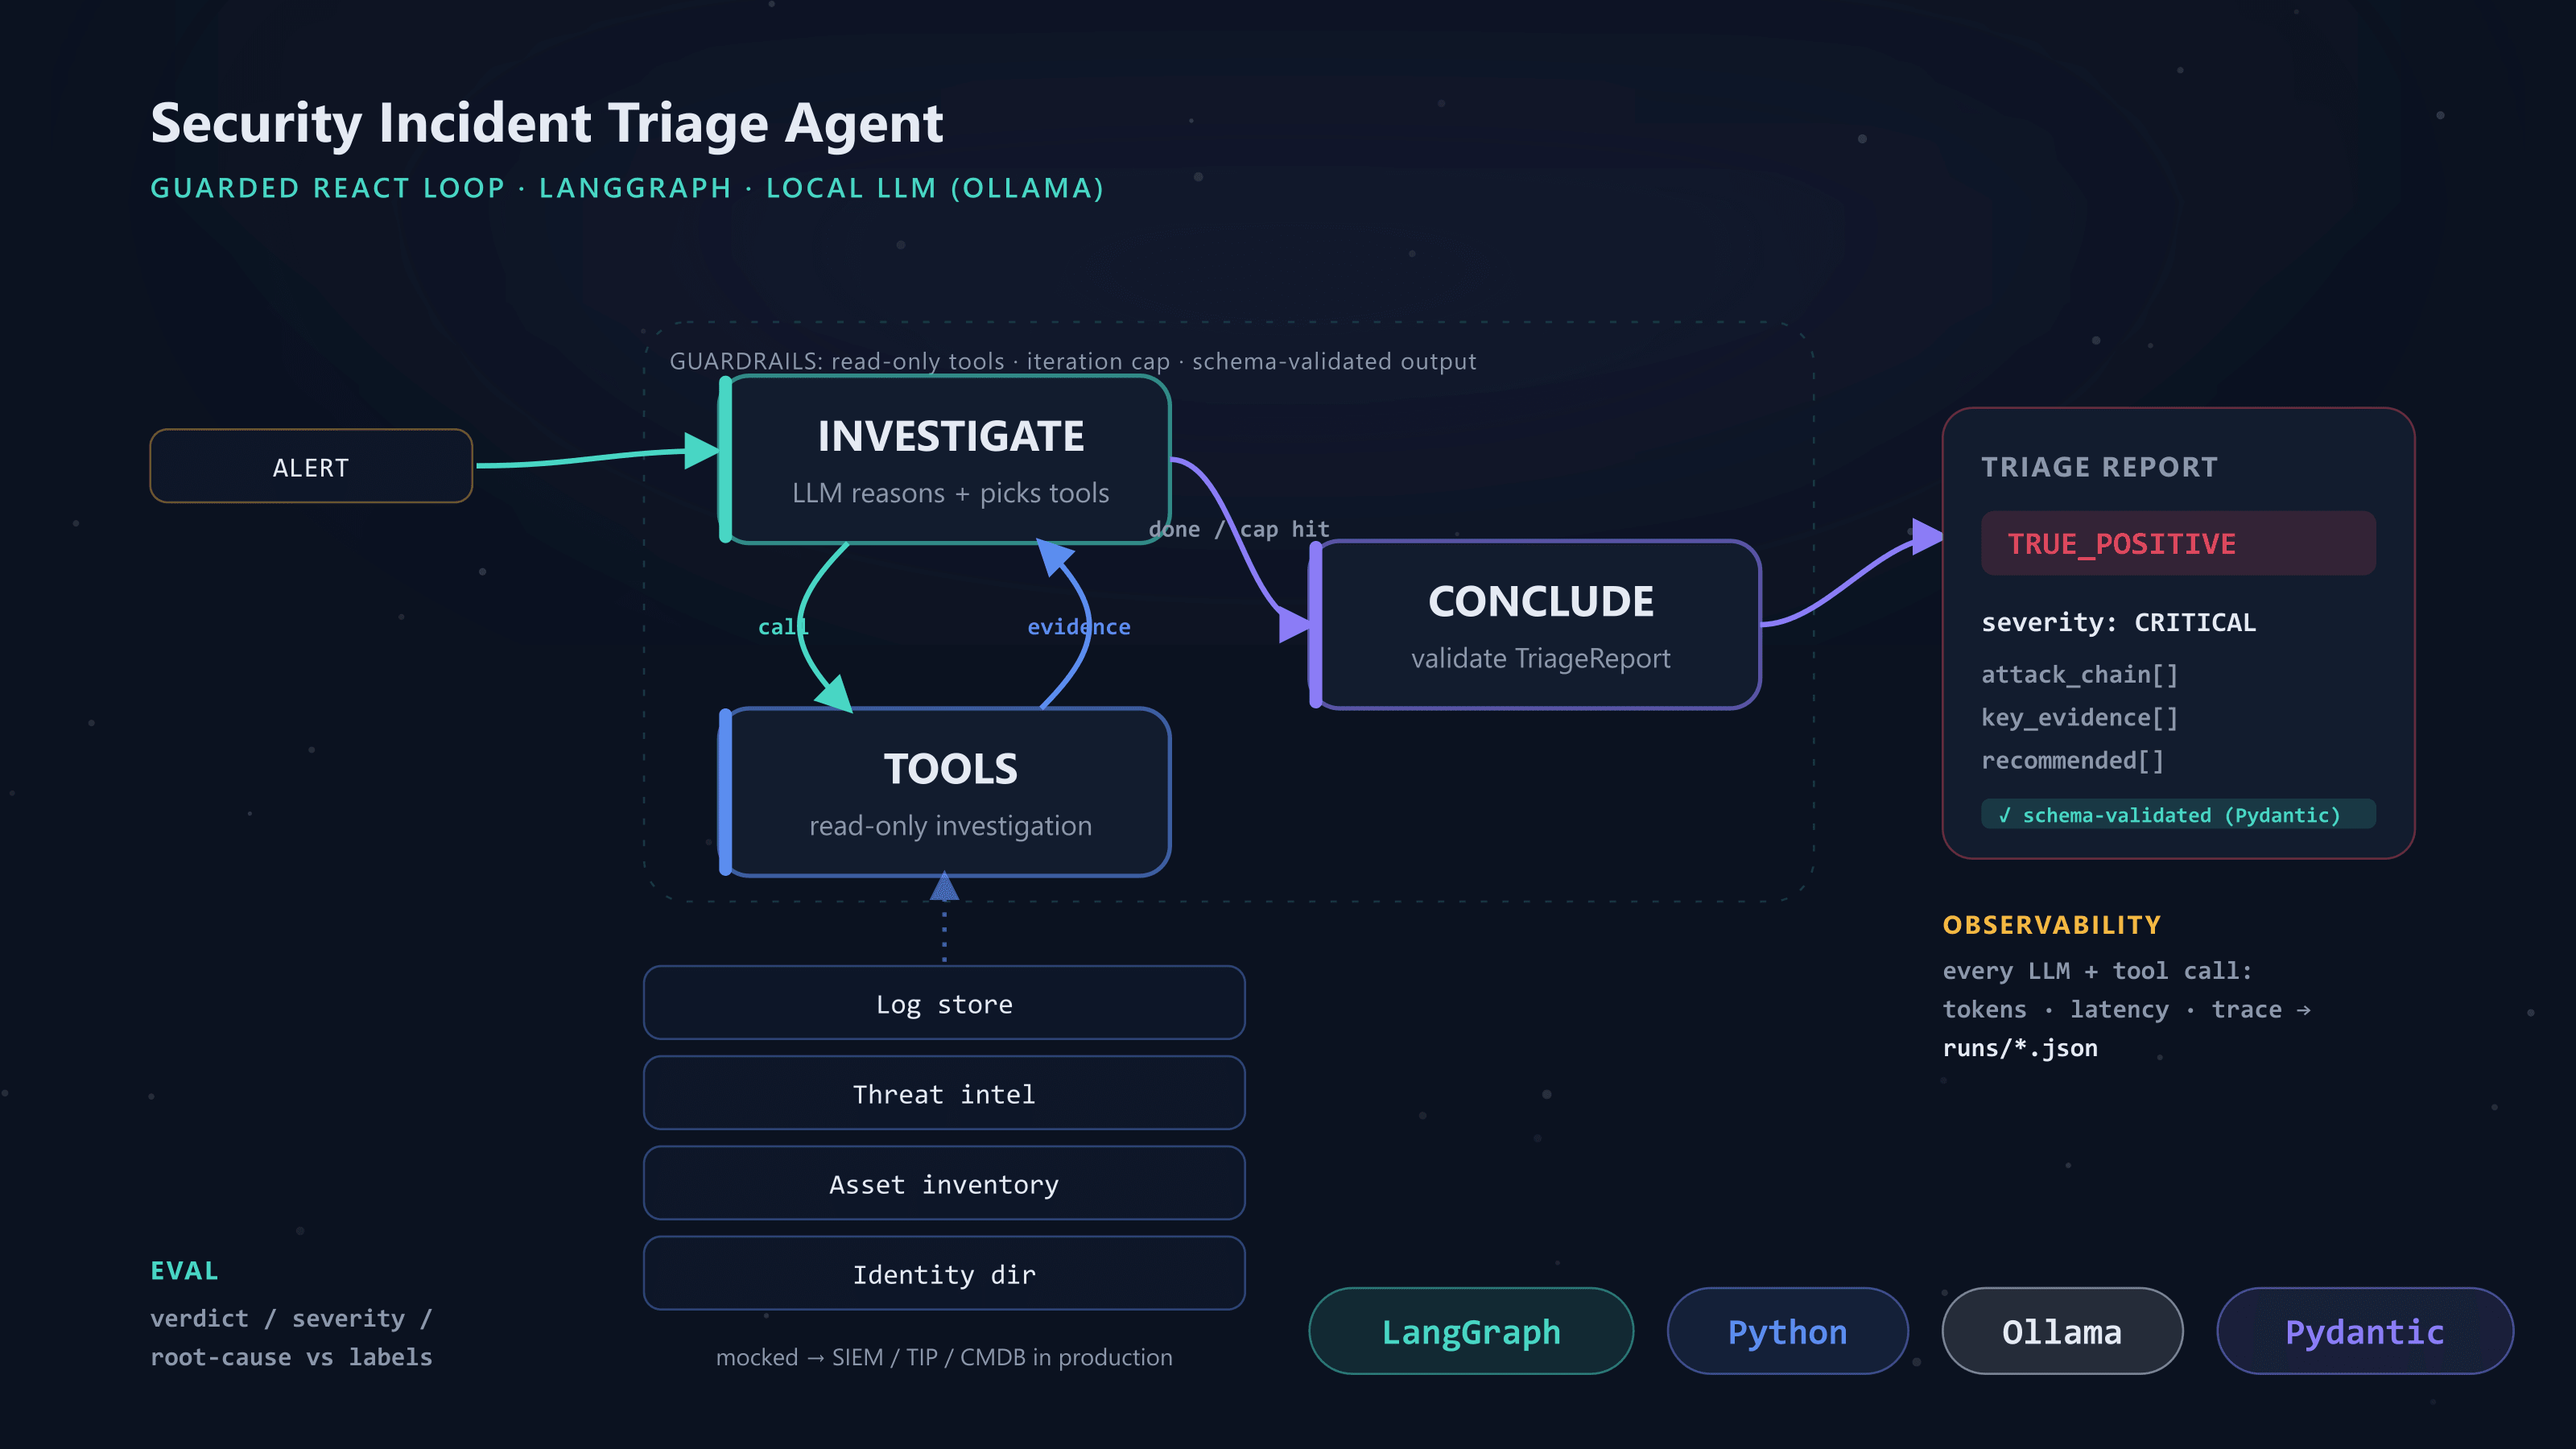
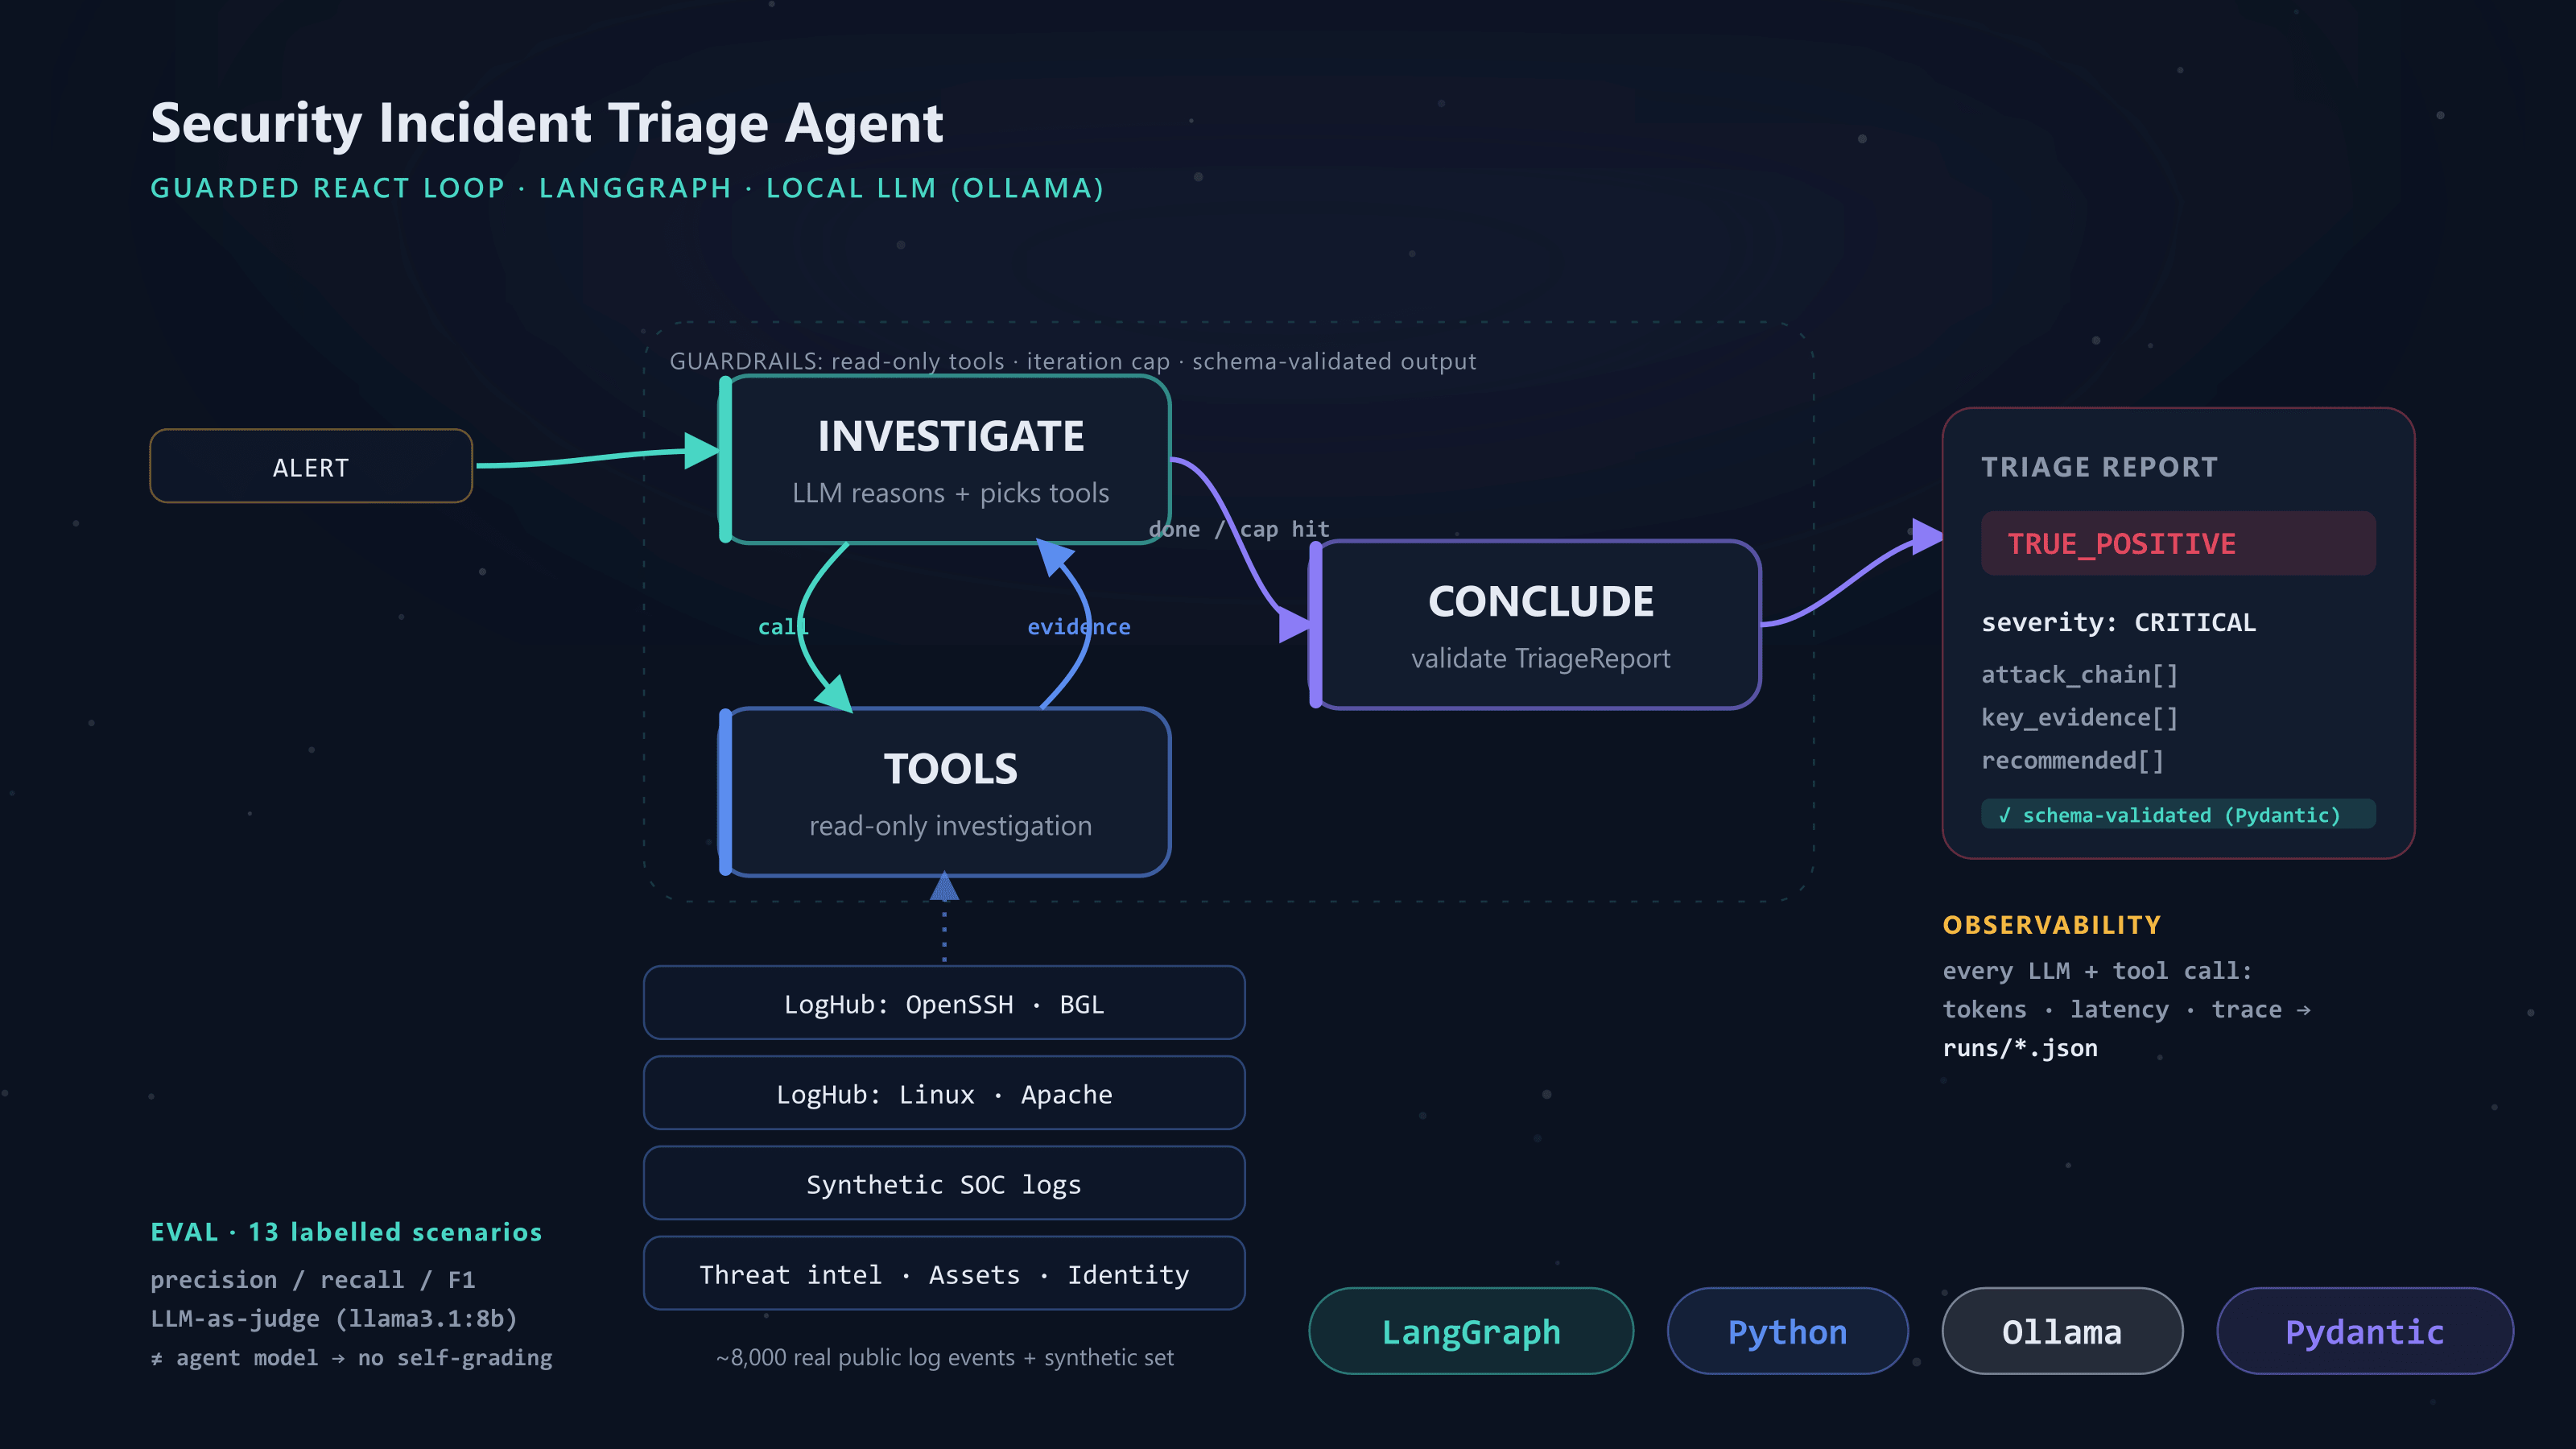
Show real agent output and measured results; drop running app project
- Add captured CLI run and evaluation-result images to the triage agent card
- Update agent copy/metrics to the measured figures (precision/recall/F1 0.75
  over ~8k real public log events, 13 labelled scenarios, LLM-as-judge)
- Refresh architecture diagram with the datasets and eval design
- Lay out multiple landscape project images with captions
- Remove the crew running application project and its assets

diff --git a/src/data/projects.ts b/src/data/projects.ts
@@ -153,14 +153,15 @@ export const otherProjects: OtherProject[] = [
     titleKo: "보안 인시던트 트리아지 AI 에이전트",
     titleEn: "Security Incident Triage Agent",
     description:
-      "보안 알림을 받아 읽기전용 도구로 로그를 조사하고, 공격 체인을 재구성해 스키마로 검증된 트리아지 리포트(정탐/오탐·심각도·근본원인)를 생성하는 멀티스텝 LangGraph 에이전트입니다. 가드레일·관측성·평가(eval)를 포함하며, 로컬 LLM(Ollama)로 완전히 오프라인 실행됩니다. CTF·버그바운티에서 하던 로그 기반 가설 수립과 근본원인 추적을 에이전트 엔지니어링으로 확장했습니다.",
+      "보안 알림을 받아 읽기전용 도구로 로그를 조사하고, 공격 체인을 재구성해 스키마로 검증된 트리아지 리포트(정탐/오탐·심각도·근본원인)를 생성하는 멀티스텝 LangGraph 에이전트입니다. 합성 데이터가 아닌 실제 공개 로그(LogHub의 OpenSSH·BGL·Linux·Apache) 약 8,000건 위에서 13개 라벨 시나리오로 평가해 정밀도·재현율 0.75(F1 0.75)를 측정했고, 에이전트와 다른 로컬 모델을 judge로 써서 근본원인의 의미 일치를 채점합니다. 전 과정이 로컬 LLM(Ollama)으로 API 비용 없이 실행됩니다.",
     keyExperience: [
       "LangGraph ReAct 에이전트 설계",
       "멀티스텝 tool-use",
       "가드레일(읽기전용·반복상한·스키마검증)",
       "관측성(토큰·지연·트레이스)",
-      "평가(eval) 하니스",
-      "로컬 LLM 오프라인 실행",
+      "정밀도·재현율 평가 하니스",
+      "LLM-as-judge (자기채점 방지)",
+      "실제 공개 로그셋 파서 연동",
     ],
     technologies: ["Python", "LangGraph", "Ollama", "Pydantic", "pytest"],
     visualType: "diagram",
@@ -169,11 +170,19 @@ export const otherProjects: OtherProject[] = [
         src: "/images/diagrams/security-agent.png",
         alt: "보안 인시던트 트리아지 에이전트 아키텍처 개념도",
       },
+      {
+        src: "/images/diagrams/agent-cli-run.png",
+        alt: "실제 실행 화면 · 트리아지 리포트",
+      },
+      {
+        src: "/images/diagrams/agent-eval-results.png",
+        alt: "평가 결과 · 정밀도 0.75 / 재현율 0.75",
+      },
     ],
     metrics: [
-      { label: "Eval accuracy", value: "2/3 → 3/3" },
-      { label: "Read-only tools", value: "5" },
-      { label: "Latency", value: "~15s / alert" },
+      { label: "Precision / Recall", value: "0.75 / 0.75 (F1 0.75)" },
+      { label: "평가 규모", value: "실로그 8천건 · 13 시나리오" },
+      { label: "Latency", value: "~13s / alert" },
     ],
     links: [
       {
@@ -183,9 +192,9 @@ export const otherProjects: OtherProject[] = [
     ],
     technicalStory: {
       approach: [
-        "LangGraph StateGraph로 investigate ↔ tools 루프와 conclude 노드를 구성한 ReAct 에이전트를 설계했습니다.",
-        "읽기전용 도구 5종(로그 검색·타임라인·IP 평판·자산·신원)으로 알림을 조사하고, 최종 결과를 Pydantic 스키마(TriageReport)로 강제했습니다.",
-        "모든 LLM·도구 호출을 토큰·지연·인자 단위로 트레이스에 기록하는 관측성 계층을 넣었습니다.",
+        "LangGraph StateGraph로 investigate ↔ tools 루프와 conclude 노드를 구성한 ReAct 에이전트를 설계하고, 읽기전용 도구 5종으로 조사한 결과를 Pydantic 스키마로 강제했습니다.",
+        "합성 데이터에 머무르지 않고 LogHub의 실제 공개 로그(OpenSSH·BGL·Linux·Apache) 파서를 만들어 약 8,000건 위에서 13개 라벨 시나리오로 평가했습니다.",
+        "에이전트와 다른 로컬 모델을 judge로 두어 근본원인의 의미 일치와 근거 인용 여부를 채점하고, 정밀도·재현율·F1로 지표화했습니다.",
       ],
       challenges: [
         {
@@ -196,13 +205,19 @@ export const otherProjects: OtherProject[] = [
         },
         {
           problem:
-            "작은 모델의 출력이 불안정해 잘못되거나 깨진 리포트가 나올 위험이 있었습니다.",
+            "실제 로그로 옮기자 공격자 IP가 위협 인텔에 아예 없어서, 조회 결과가 'clean'으로 나오며 에이전트를 미탐(false negative) 쪽으로 밀었습니다.",
           solution:
-            "읽기전용 도구 allowlist·반복 상한·스키마 검증 폴백으로 '안전하게 실패'하도록 가드레일을 세우고, 평가(eval) 하니스로 정확도를 정량화(3B 2/3 · 7B 3/3)해 회귀를 감지하게 했습니다.",
+            "인텔 기록이 없는 주소는 'clean'이 아니라 'unknown'으로 반환하도록 바꿔, '정보 없음'과 '안전함'을 분리했습니다. 실데이터를 넣지 않았으면 발견하지 못했을 설계 결함이었습니다.",
+        },
+        {
+          problem:
+            "정답 라벨을 제가 만들다 보니 채점 자체가 불공정해질 위험이 있었습니다.",
+          solution:
+            "시나리오마다 라벨 출처를 명시(BGL은 데이터셋 공식 라벨, 나머지는 규칙 기반 파생)하고 임계값을 문서화했습니다. 그 과정에서 '실패한 SSH 브루트포스'를 high로 잡은 제 라벨이 과했음을 발견해 medium으로 정정했습니다.",
         },
       ],
       growth:
-        "'모델을 바꾸기 전에 컨텍스트·평가·가드레일부터 설계한다'는 LLM 제품 엔지니어링 관점을 체득했고, 관측성이 디버깅의 핵심이라는 것을 직접 경험했습니다.",
+        "합성 데이터에서는 보이지 않던 결함(위협인텔 공백, 과한 정답 라벨)이 실데이터에서 드러나는 것을 경험하며, '평가 설계가 곧 제품 품질'이라는 관점을 얻었습니다. 완벽한 수치를 만들기보다 F1 0.75라는 실제 측정값과 약점(심각도 과소평가)을 그대로 공개하는 편이 신뢰를 준다고 판단했습니다.",
     },
   },
   {
@@ -248,65 +263,6 @@ export const otherProjects: OtherProject[] = [
     ],
     disclaimerNote:
       "실제 테이블명·컬럼명·내부 문서·고객 요구사항은 공개하지 않습니다.",
-  },
-  {
-    id: "crew-running-application",
-    titleKo: "크루 기반 러닝 애플리케이션",
-    titleEn: "Crew Running Application",
-    description:
-      "러닝 크루의 실제 사용 흐름을 분석해, 최대 10명이 참여하는 크루의 위치를 약 5초 주기로 갱신하며 이동 경로를 지도에 실시간 공유하는 Android 애플리케이션을 개발했습니다. 스마트폰 추락 감지 시 주변 AED 위치를 자동으로 표출해 긴급상황에 대응할 수 있도록 구현했습니다.",
-    keyExperience: [
-      "사용자 요구사항 분석",
-      "위치 기반 데이터 처리",
-      "실시간 사용자 위치 표출",
-      "러닝 경로 시각화",
-      "스마트폰 추락 감지",
-      "주변 AED 위치 안내",
-    ],
-    technologies: ["Java", "Android Studio", "Location API", "Spatial Data"],
-    metrics: [
-      { label: "실시간 크루", value: "최대 10명" },
-      { label: "위치 갱신", value: "약 5초 주기" },
-      { label: "핵심 기능", value: "3종 (위치·낙상·AED)" },
-    ],
-    visualType: "screenshot",
-    images: [
-      {
-        src: "/images/running-app/running-main.png",
-        alt: "러닝 크루 애플리케이션 로그인 및 메인 화면",
-      },
-      {
-        src: "/images/running-app/running-map.png",
-        alt: "크루 위치와 러닝 경로가 표출된 지도 화면",
-      },
-      {
-        src: "/images/running-app/aed-alert.png",
-        alt: "추락 감지 시 주변 AED 위치 안내 화면",
-      },
-    ],
-    technicalStory: {
-      approach: [
-        "Android(Java)에서 위치 API로 최대 10명 크루원의 위치를 약 5초 주기로 수집·공유하고, 지도에 각자의 위치와 러닝 경로를 실시간으로 표출했습니다.",
-        "가속도 센서 값의 급격한 변화 패턴으로 스마트폰 추락(낙상) 이벤트를 감지했습니다.",
-        "낙상 감지 시 공공 AED 위치 데이터와 현재 위치로 최근접 AED를 계산해 안내했습니다.",
-      ],
-      challenges: [
-        {
-          problem:
-            "위치를 자주 갱신하면 배터리 소모와 지도 렌더링 부하가 커지고, GPS 오차로 경로가 튀는 문제가 있었습니다.",
-          solution:
-            "위치 갱신 주기와 정확도 우선순위를 조정하고 경로 좌표를 보정해 배터리 소모와 표출 품질의 균형을 맞췄습니다.",
-        },
-        {
-          problem:
-            "달릴 때의 반동·흔들림과 실제 낙상을 구분하지 못해 오탐이 발생했습니다.",
-          solution:
-            "가속도 임계값에 더해 충격 직후의 정지 구간을 함께 판정 조건으로 삼아 오탐을 줄였습니다.",
-        },
-      ],
-      growth:
-        "센서·위치처럼 노이즈가 많은 실데이터를 다루며 '정확도 vs 배터리·오탐' 같은 현실적 트레이드오프를 조정하는 감각을 길렀습니다.",
-    },
   },
 ];
 

diff --git a/src/components/ui/ProjectCard.tsx b/src/components/ui/ProjectCard.tsx
@@ -9,7 +9,8 @@ interface ProjectCardProps {
 export default function ProjectCard({ project }: ProjectCardProps) {
   return (
     <article className="flex h-full flex-col rounded-lg border border-border bg-surface p-6">
-      {project.images.length === 1 ? (
+      {/* First image leads full-width; any further images sit in a 2-up grid. */}
+      <div className="space-y-2">
         <div className="relative aspect-video overflow-hidden rounded-md border border-border bg-background">
           <Image
             src={project.images[0].src}
@@ -19,24 +20,27 @@ export default function ProjectCard({ project }: ProjectCardProps) {
             className="object-contain"
           />
         </div>
-      ) : (
-        <div className="grid grid-cols-3 gap-2">
-          {project.images.map((image) => (
-            <div
-              key={image.src}
-              className="relative aspect-[9/16] overflow-hidden rounded-md border border-border"
-            >
-              <Image
-                src={image.src}
-                alt={image.alt}
-                fill
-                sizes="(min-width: 768px) 16vw, 33vw"
-                className="object-cover"
-              />
-            </div>
-          ))}
-        </div>
-      )}
+        {project.images.length > 1 ? (
+          <div className="grid grid-cols-2 gap-2">
+            {project.images.slice(1).map((image) => (
+              <figure key={image.src} className="m-0">
+                <div className="relative aspect-video overflow-hidden rounded-md border border-border bg-background">
+                  <Image
+                    src={image.src}
+                    alt={image.alt}
+                    fill
+                    sizes="(min-width: 768px) 25vw, 50vw"
+                    className="object-contain"
+                  />
+                </div>
+                <figcaption className="mt-1 text-center font-mono text-[10px] text-muted">
+                  {image.alt}
+                </figcaption>
+              </figure>
+            ))}
+          </div>
+        ) : null}
+      </div>
 
       {project.processFlow ? (
         <div className="mt-4">